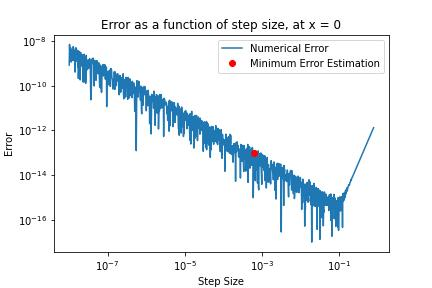
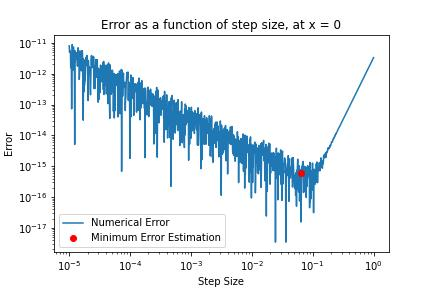
continued a1

diff --git a/Assignment 1/Assignment 1.md b/Assignment 1/Assignment 1.md
@@ -78,7 +78,7 @@ Now we can try the same procedure, but for the $e^{0.01 x}$ function. Again, we 
 
 ![q1_error_plot2](figs/q1_error_plot2.jpg)
 
-For this plot the order of magnitude of the 5th derivative was in fact significant since $\frac{d^5}{dx^5} e^x = (0.01)^5e^x$. Hence, the optimal step size had to be divided by $0.01$ and after doing so, we see that it does indeed fall on the minimum of the curve for the error.
+For this plot the order of magnitude of the 5th derivative was in fact significant since $\frac{d^5}{dx^5} e^x = (0.01)^5e^x$. Hence, the optimal step size had to be divided by $0.01$ and after doing so, we see that it does indeed fall roughly on the minimum of the curve for the error.
 
 ## Question 2
 
